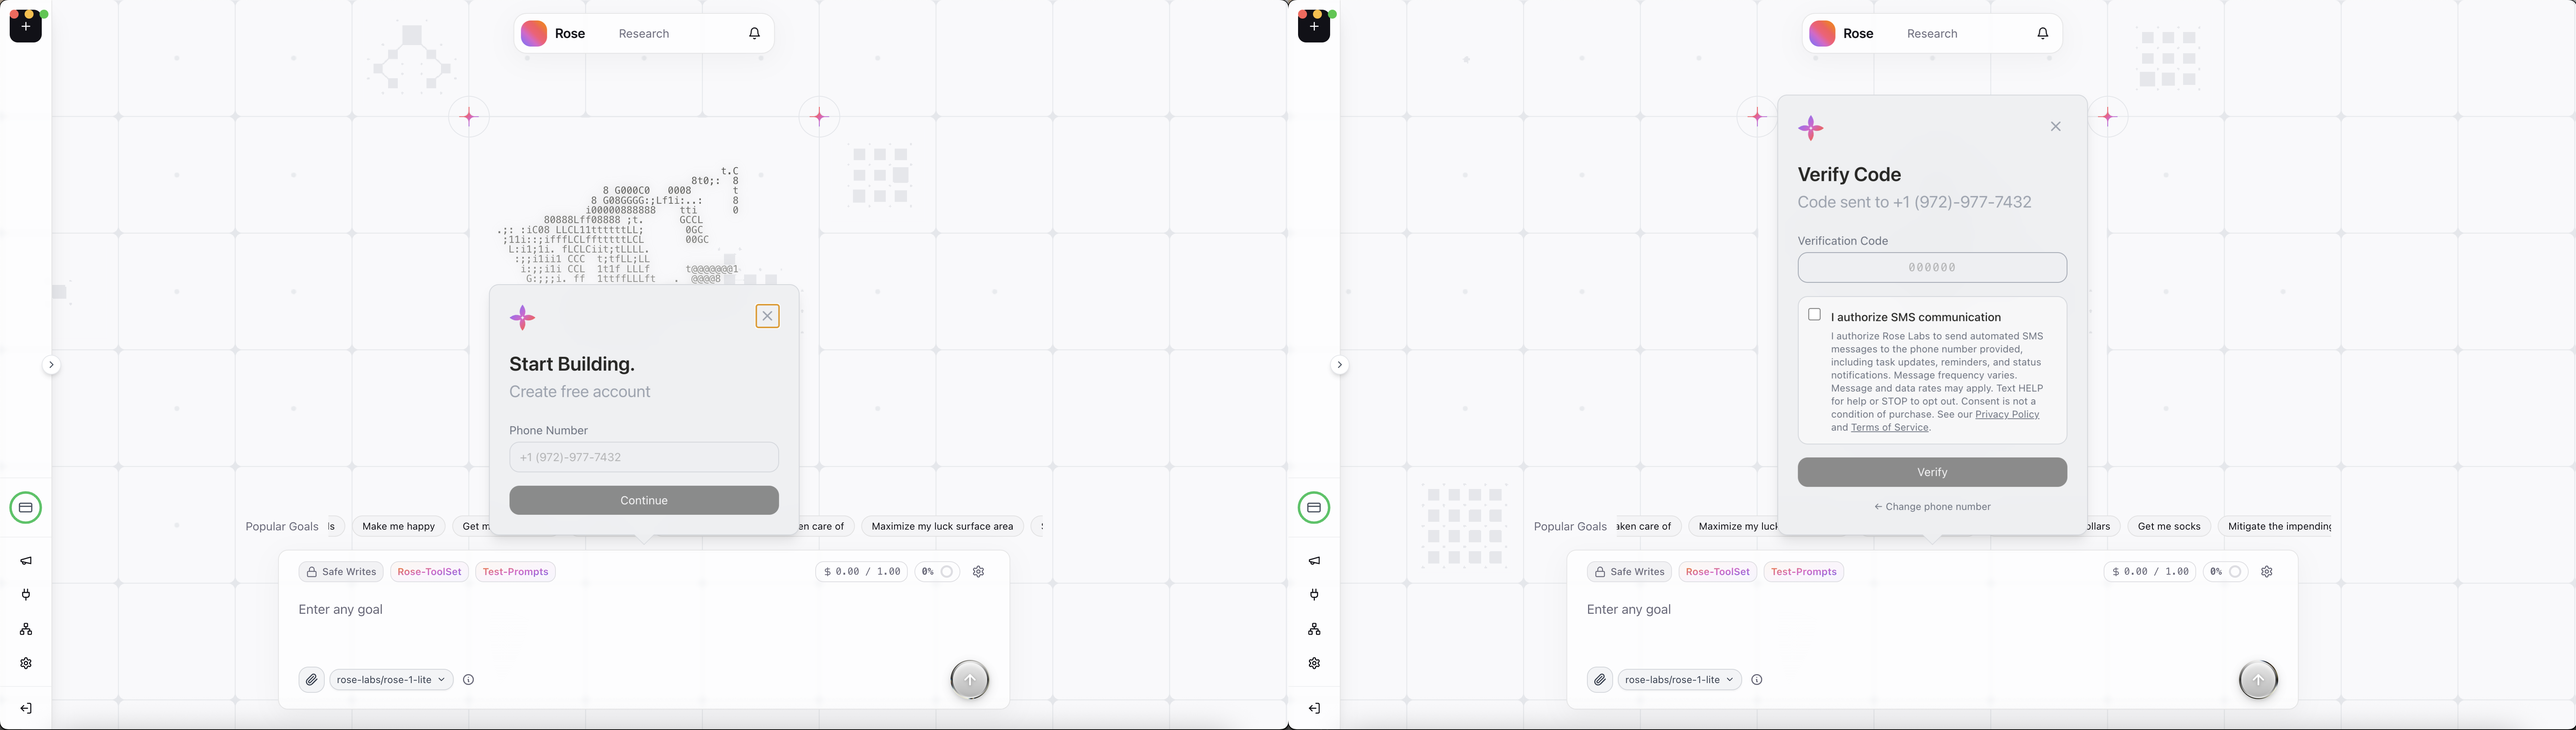
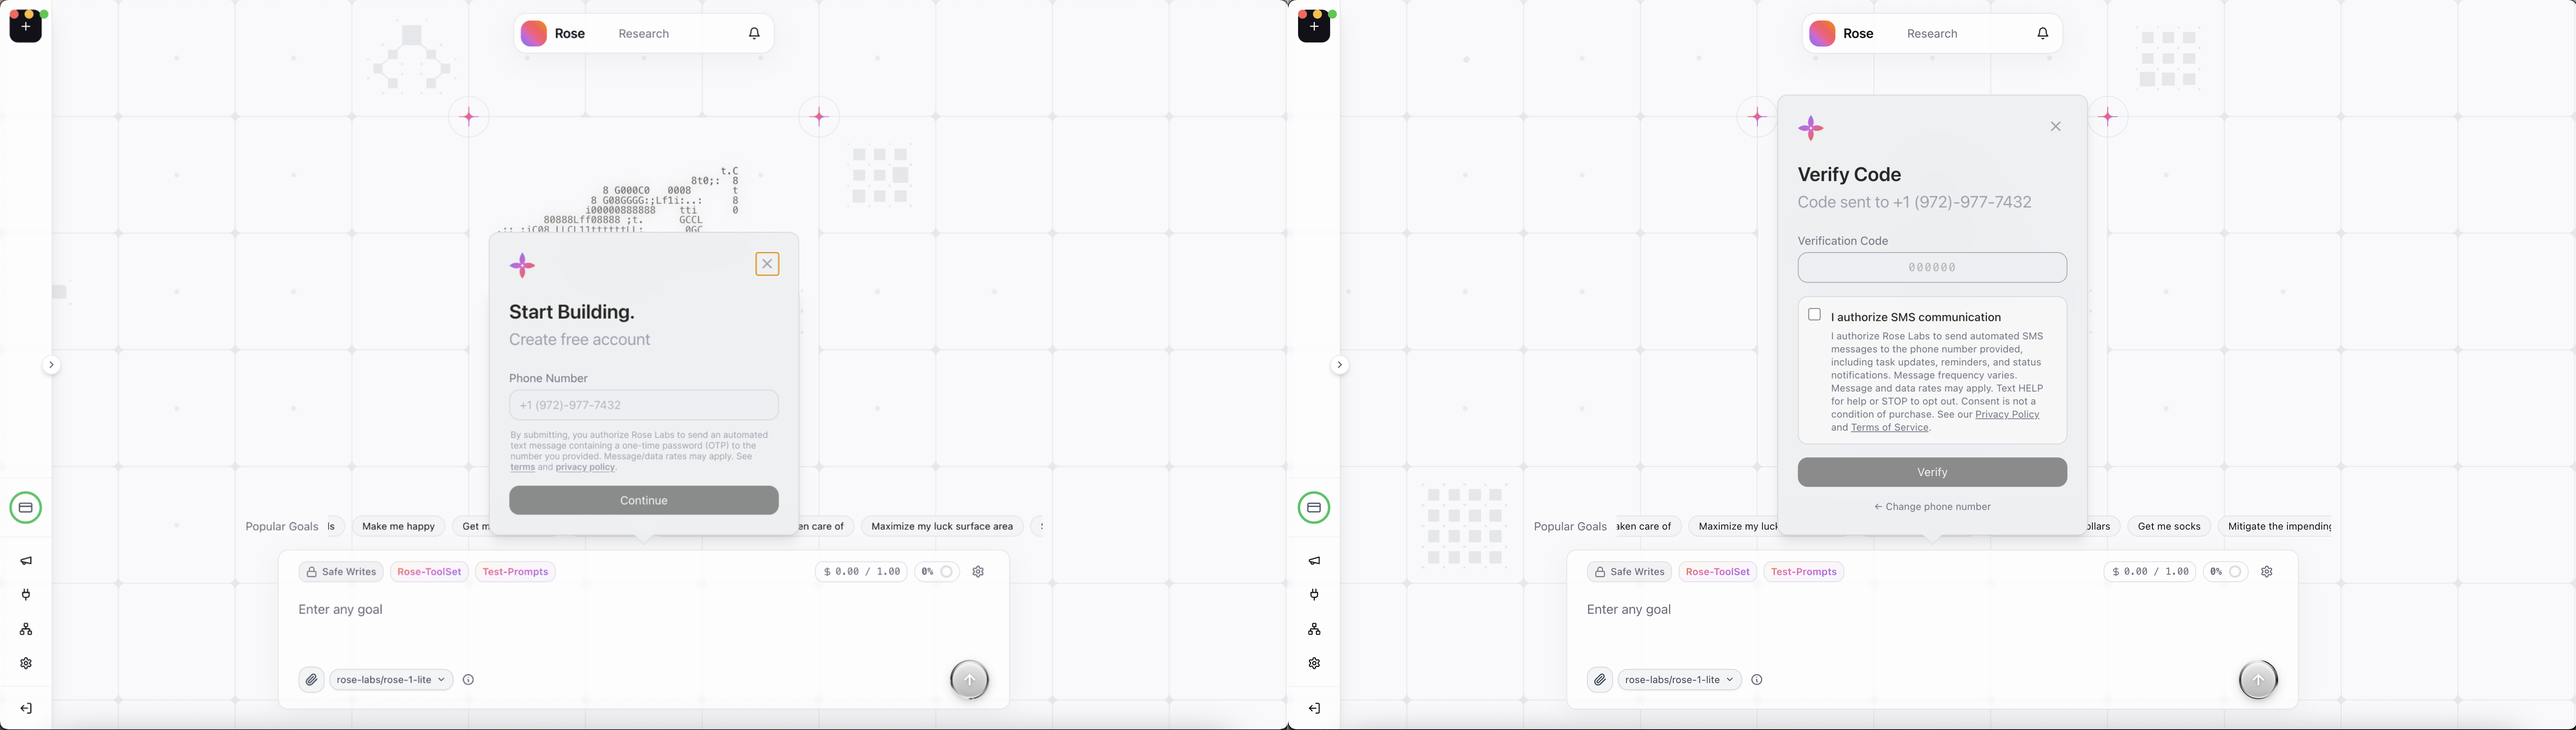
Add SMS opt-in disclaimer to phone entry screen (#115)
Updated PhoneAuthModal to display SMS authorization text below the phone input field with links to terms and privacy policy. Also updated screenshot to reflect the new phone entry UI.

diff --git a/front-end/src/components/auth/PhoneAuthModal.tsx b/front-end/src/components/auth/PhoneAuthModal.tsx
@@ -308,6 +308,27 @@ const PhoneAuthModal = ({ open, onOpenChange, triggerRef, onAuthComplete, anonym
                   className="w-full px-3 py-2 bg-[#EEEFF2] border border-gray-300 rounded-lg text-navi-black text-sm placeholder-navi-black/30 focus:outline-none focus:border-gray-400"
                   disabled={loading}
                 />
+                <p className="text-xs text-gray-500 mt-2">
+                  By submitting, you authorize Rose Labs to send an automated text message containing a one-time password (OTP) to the number you provided. Message/data rates may apply. See{' '}
+                  <a
+                    href="https://roselabs.ai/terms"
+                    target="_blank"
+                    rel="noopener noreferrer"
+                    className="underline hover:text-navi-black"
+                  >
+                    terms
+                  </a>
+                  {' '}and{' '}
+                  <a
+                    href="https://roselabs.ai/privacy"
+                    target="_blank"
+                    rel="noopener noreferrer"
+                    className="underline hover:text-navi-black"
+                  >
+                    privacy policy
+                  </a>
+                  .
+                </p>
               </div>
 
               <button
